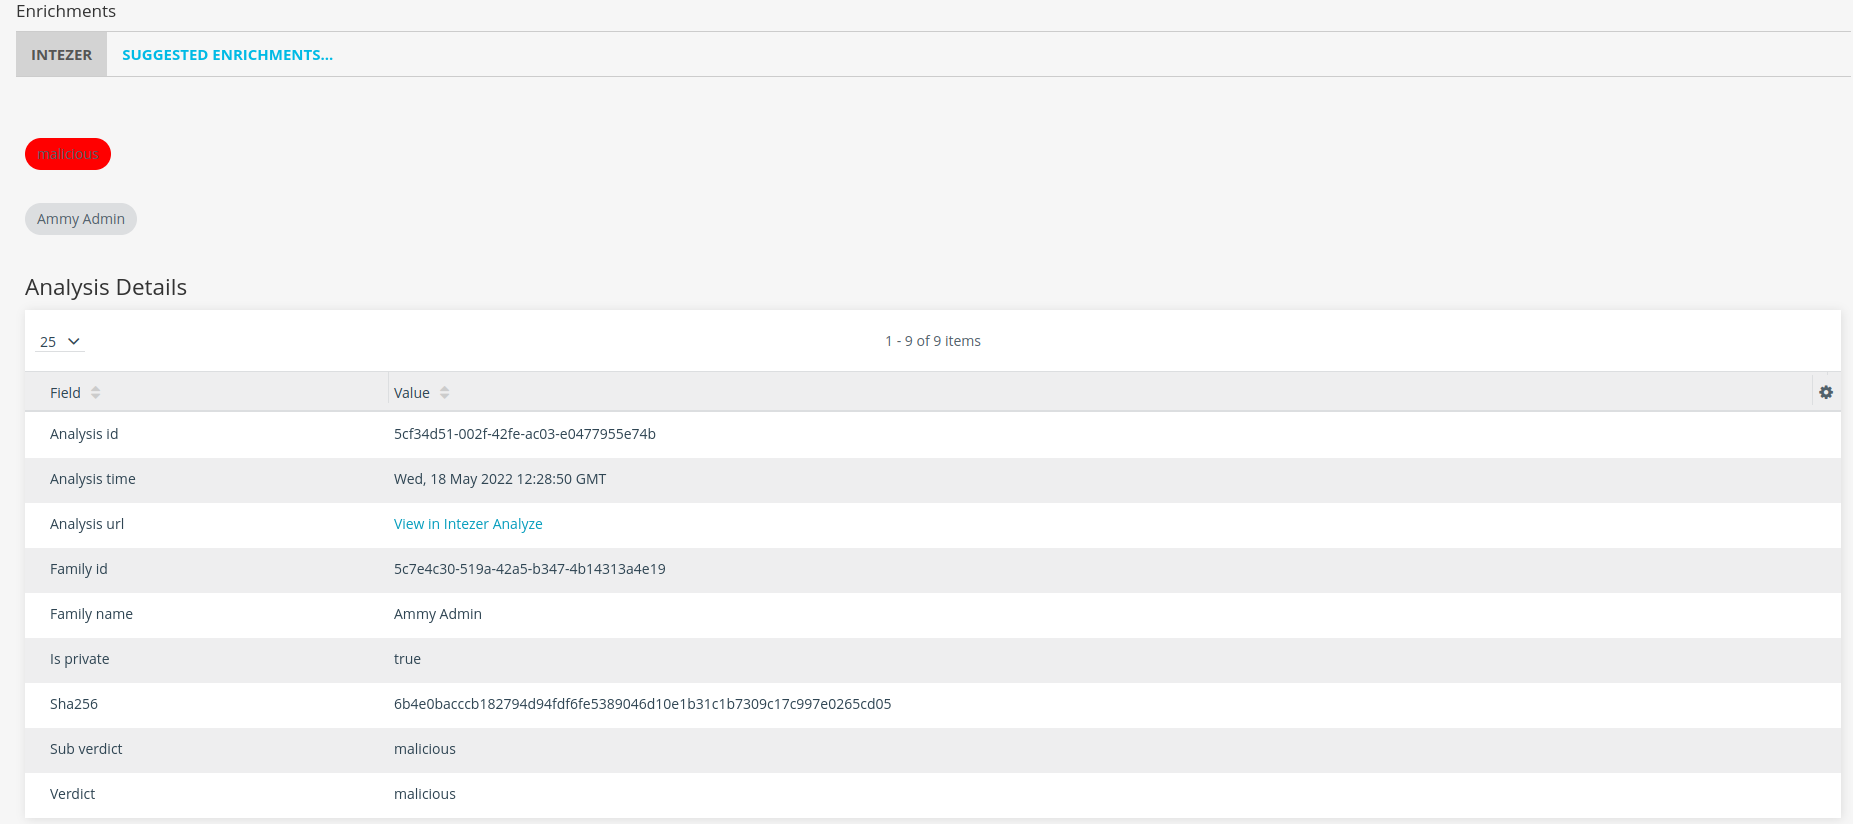
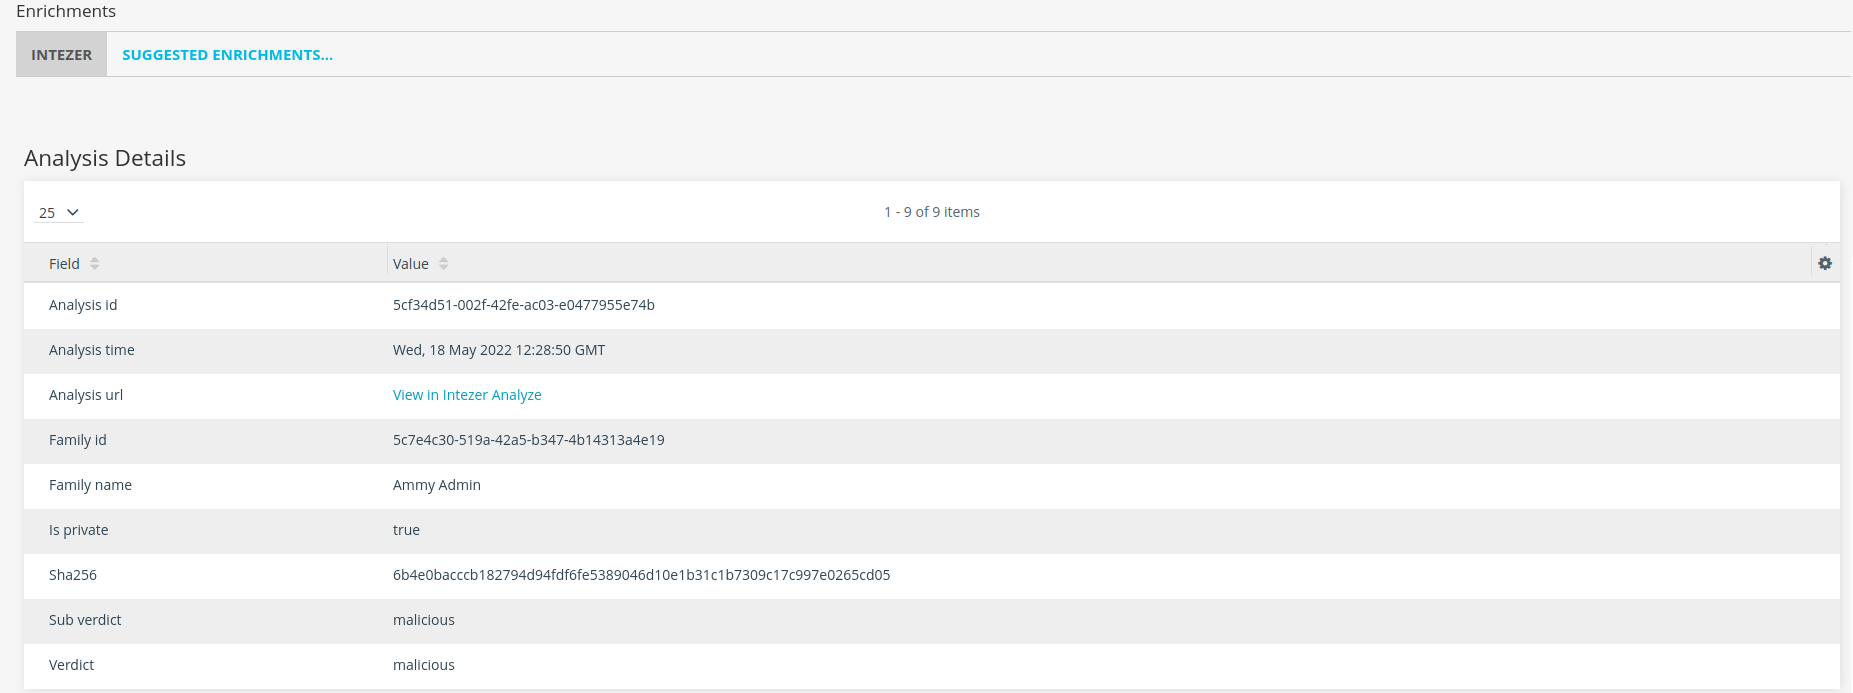
fix: add default timeout, remove bubbles

diff --git a/package/source/intezer_anomali_enrichment.py b/package/source/intezer_anomali_enrichment.py
@@ -1194,8 +1194,8 @@ from AnomaliEnrichment import TableWidget
 from AnomaliEnrichment import TextWidget
 
 SEVERITY_TO_NAME = {1: 'low', 2: 'medium', 3: 'high'}
-VERDICT_TO_COLOR = {'malicious': 'red', 'trusted': 'green'}
 REQUESTER = 'anomali'
+MAX_TIMEOUT = 25
 
 
 def activation(api_key: str):
@@ -1218,11 +1218,6 @@ def enrich_hash(ae: AnomaliEnrichment, hash_value: str, wait_timeout: Optional[d
 
     analysis_details = file_analysis.result()
 
-    verdict = analysis_details['verdict']
-    family_name = analysis_details.get('family_name')
-    ae.addWidget(TextWidget(ItemInWidget(ItemTypes.String, verdict, backgroundColor=VERDICT_TO_COLOR.get(verdict))))
-    if family_name:
-        ae.addWidget(TextWidget(ItemInWidget(ItemTypes.String, family_name)))
     basic_table_widget = TableWidget('Analysis Details', ['Field', 'Value'], columnWidths=['20%', '80%'])
 
     for key, value in analysis_details.items():
@@ -1330,14 +1325,24 @@ def main():
         try:
             wait_timeout = int(wait_timeout)
             if wait_timeout < 1:
-                ae.addMessage("ERROR", 'Wrong optional_analysis_wait_timeout format, must be a positive number ')
-                ae.addException('Input Error : Wrong optional_analysis_wait_timeout format')
+                message = 'Wrong optional_analysis_wait_timeout, must be a positive number'
+                ae.addMessage('ERROR', message)
+                ae.addException(f'Input Error: {message}')
                 return
-            wait_timeout = datetime.timedelta(seconds=wait_timeout)
+            elif wait_timeout > MAX_TIMEOUT:
+                message = f'Wrong optional_analysis_wait_timeout, must be lower or equal to {MAX_TIMEOUT}'
+                ae.addMessage('ERROR', message)
+                ae.addException(f'Input Error: {message}')
+                return
         except ValueError:
-            ae.addMessage("ERROR", 'Wrong optional_analysis_wait_timeout format, must be a number ')
-            ae.addException('Input Error : Wrong optional_analysis_wait_timeout format')
+            message = 'Wrong optional_analysis_wait_timeout format, must be a number'
+            ae.addMessage('ERROR', message)
+            ae.addException(f'Input Error: {message}')
             return
+    else:
+        wait_timeout = MAX_TIMEOUT
+
+    wait_timeout = datetime.timedelta(seconds=wait_timeout)
 
     if transform_name is None:
         ae.addException('Transform Name is not provided')

diff --git a/README.md b/README.md
@@ -12,7 +12,7 @@ To activate the Intezer Analyze enrichment:
 3. Search for Intezer Analyze, and click "Get Access".
 4. Click "I have already registered" and enter your Intezer API Key found in [account details](https://analyze.intezer.com/account-details).
 5. Configure additional parameters:
-   * Timeout waiting for an analysis to finish (optional), the default is to wait until the analysis is finished.
+   * Timeout waiting for an analysis to finish in seconds (optional, max is 25), the default is to wait 25 seconds.
    * Should the querying of the latest analysis only return private analysis, default is false. 
    Use this to avoid consuming quota everytime you query a hash.
 6. If errors occur, contact support@intezer.com for assistance.
